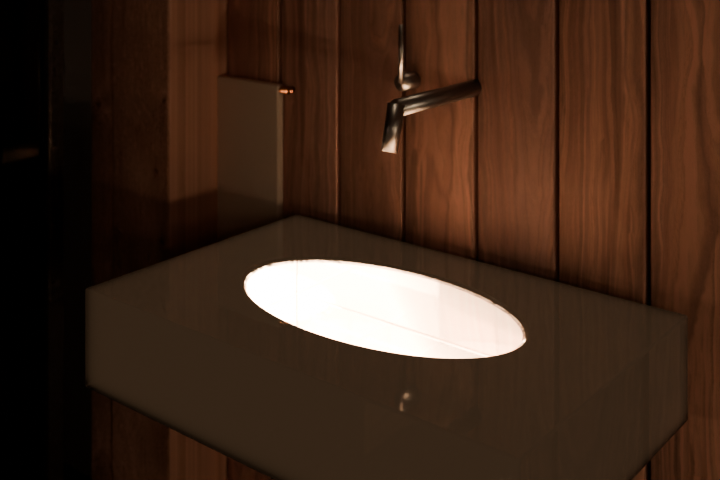
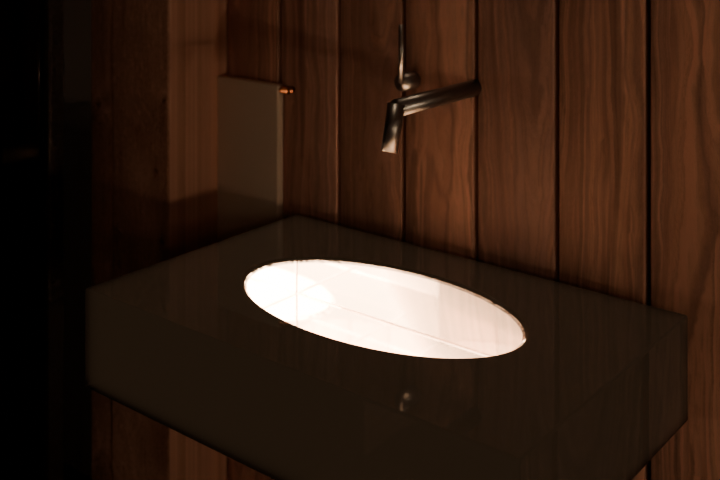
Planet r37: the light on each speaker pair scaled to its tint (Ember clipped red in a Standard view); listening and sink p2 proofs
Claude-Session: https://claude.ai/code/session_01RtMFkXqqDHGwCrM5twxhtt

diff --git a/spinoffs/barkhorn/planet/r37/r37_shots.py b/spinoffs/barkhorn/planet/r37/r37_shots.py
@@ -93,10 +93,17 @@ def lights(v):
                 L[f'plinth{grp}{i}'] = {'type': 'area', 'position': [x, y, round(zz + 0.01, 3)], 'target': [x, y, round(zz + 0.9, 3)],
                                         'size_m': [0.40, 0.30], 'irradiance': round(v['plinth_lamp'] * v['plinth'] * RP.PLINTH_GAIN[tint], 3),
                                         'color': RP.PLINTH_COL[tint], 'camera': False, 'receivers': [f'*#{i}']}
+    # the light on each pair scaled to its tint (a saturated red clips first)
+    gl, gb = RP.SPK_GAIN[cfg['listen']], RP.SPK_GAIN[cfg['bar']]
+    for k, l in L.items():
+        if k.startswith('altar') and 'power_w' in l:
+            l['power_w'] = round(l['power_w'] * gl, 2)
+        elif k.startswith('spk') and 'irradiance' in l:
+            l['irradiance'] = round(l['irradiance'] * gl, 3)
     # the bar pair: a soft spot from the ceiling over the bartender's aisle onto each cabinet's face
     for i, (role, x, y, zz, rot, tilt) in enumerate(RP.bar_speakers()):
         L[f'barspk{i}'] = {'type': 'spot', 'position': [x, round(y - 1.25, 3), RP.CEIL - 0.25],
-                           'target': [x, y, round(zz + 0.75, 3)], 'power_w': v.get('barspk_w', 30.0),
+                           'target': [x, y, round(zz + 0.75, 3)], 'power_w': round(v.get('barspk_w', 30.0) * gb, 2),
                            'cone_deg': v.get('barspk_cone', 26.0), 'blend': 0.8, 'radius_m': 0.03, 'color': 2700,
                            'camera': False}
     return L

diff --git a/spinoffs/barkhorn/planet/r37/r37_plan.py b/spinoffs/barkhorn/planet/r37/r37_plan.py
@@ -73,3 +73,6 @@ PLINTH_COL = {'smoke': '#FFB060', 'ember': '#FF5038', 'ice': '#5AB4FF'}
 # and its strength per tint: a saturated red clips first (Ember at 1.0 clipped 1387 and 5604 px red-only in a Standard
 # view, r37); Smoke needs the most to read at all
 PLINTH_GAIN = {'smoke': 1.0, 'ember': 0.25, 'ice': 0.5}
+# the light on the speakers per tint (the altar spots, the lamps on the listening pair, the bar pair's spots): Ember at
+# Smoke's levels clipped its red to pink (6040 px red-only in a Standard view, listening, r37)
+SPK_GAIN = {'smoke': 1.0, 'ember': 0.35, 'ice': 0.6}
